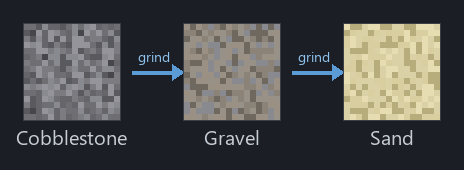
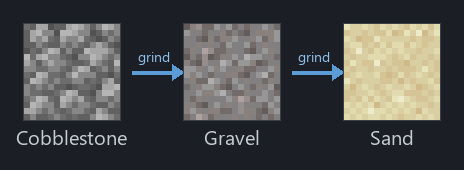
art: use real vanilla textures in the erosion diagram
The cobblestone -> gravel -> sand diagram now renders the actual vanilla
block textures instead of procedural stand-ins. The raw textures are
Mojang's, so they live in tools/vanilla/ (gitignored) and are NOT shipped;
the generator loads them if present and falls back to procedural swatches
otherwise. Added an attribution note in the README. Also refreshed the
build-status note now that CI + the 1.21.1 runClient smoke test are green.

diff --git a/tools/generate_assets.py b/tools/generate_assets.py
@@ -24,6 +24,9 @@ from PIL import Image, ImageDraw, ImageFont
 ROOT = os.path.dirname(os.path.dirname(os.path.abspath(__file__)))
 TEX = os.path.join(ROOT, "src", "main", "resources", "assets", "weathering", "textures")
 IMG = os.path.join(ROOT, "docs", "img")
+# Optional real vanilla textures for the erosion diagram (gitignored — Mojang's
+# assets, not ours). If absent, the diagram falls back to procedural swatches.
+VANILLA = os.path.join(ROOT, "tools", "vanilla")
 
 # ---------------------------------------------------------------- palette
 STONE = [(0x6f, 0x6f, 0x73), (0x7c, 0x7c, 0x80), (0x89, 0x89, 0x90),
@@ -455,8 +458,20 @@ def swatch(kind, seed):
     return im
 
 
+def material_tile(vanilla_name, kind, seed):
+    """The real vanilla texture if it's been dropped into tools/vanilla/,
+    otherwise a procedural stand-in so the generator still runs on a clean clone."""
+    p = os.path.join(VANILLA, vanilla_name + ".png")
+    if os.path.exists(p):
+        return Image.open(p).convert("RGBA")
+    return swatch(kind, seed)
+
+
 def render_chain(scale=6):
-    tiles = [("cobble", "Cobblestone", 11), ("gravel", "Gravel", 22), ("sand", "Sand", 33)]
+    # (vanilla filename, procedural-fallback kind, label, seed)
+    tiles = [("cobblestone", "cobble", "Cobblestone", 11),
+             ("gravel", "gravel", "Gravel", 22),
+             ("sand", "sand", "Sand", 33)]
     cell = 16 * scale
     gap = 64
     pad = 24
@@ -468,8 +483,8 @@ def render_chain(scale=6):
     font = load_font(20)
     x = pad
     y = pad
-    for i, (kind, name, seed) in enumerate(tiles):
-        big = upscale(swatch(kind, seed), scale)
+    for i, (vanilla_name, kind, name, seed) in enumerate(tiles):
+        big = upscale(material_tile(vanilla_name, kind, seed), scale)
         im.alpha_composite(big, (x, y))
         d.rectangle([x - 1, y - 1, x + cell, y + cell], outline=(0x3a, 0x40, 0x4a, 255))
         tb = d.textbbox((0, 0), name, font=font)

diff --git a/README.md b/README.md
@@ -108,10 +108,11 @@ Switch which version your IDE compiles against with the generated Stonecutter ta
 **`Set active project to 1.21.1`** / **`… 26.2`**; per-version `runClient` /
 `runServer` tasks launch a dev game for the active version.
 
-> Both versions **compile and build**. In-game runtime (world load, GUI render,
-> datapack load) hasn't been smoke-tested yet — that's the natural next step.
-> 26.2 postdates the tooling's training data, but every 26.2 signature here was
-> verified against the actual downloaded 26.2 jars.
+> Both versions **compile and build** (verified in CI on every push), and the
+> **1.21.1** client has been smoke-tested via `runClient` — the mod loads, block
+> textures + model resolve, and the recipe parses with no errors. 26.2 postdates
+> the tooling's training data, but every 26.2 signature here was verified against
+> the actual downloaded 26.2 jars.
 
 ## Art & assets
 
@@ -122,6 +123,12 @@ Textures are **generated**, not hand-drawn — [`tools/generate_assets.py`](tool
   `src/main/resources/assets/weathering/textures/`.
 - **Repo previews:** the banner, isometric render, face card, GUI preview, and
   erosion-chain diagram in `docs/img/` (everything shown in this README).
+
+The erosion diagram shows the **vanilla** cobblestone, gravel and sand textures,
+which are © Mojang Studios and used here for reference only — they are **not**
+covered by this repo's MIT license. They live in `tools/vanilla/` (gitignored);
+drop those three PNGs in there to regenerate the diagram with them, otherwise the
+generator falls back to procedural stand-ins.
 
 Regenerate everything with:
 
